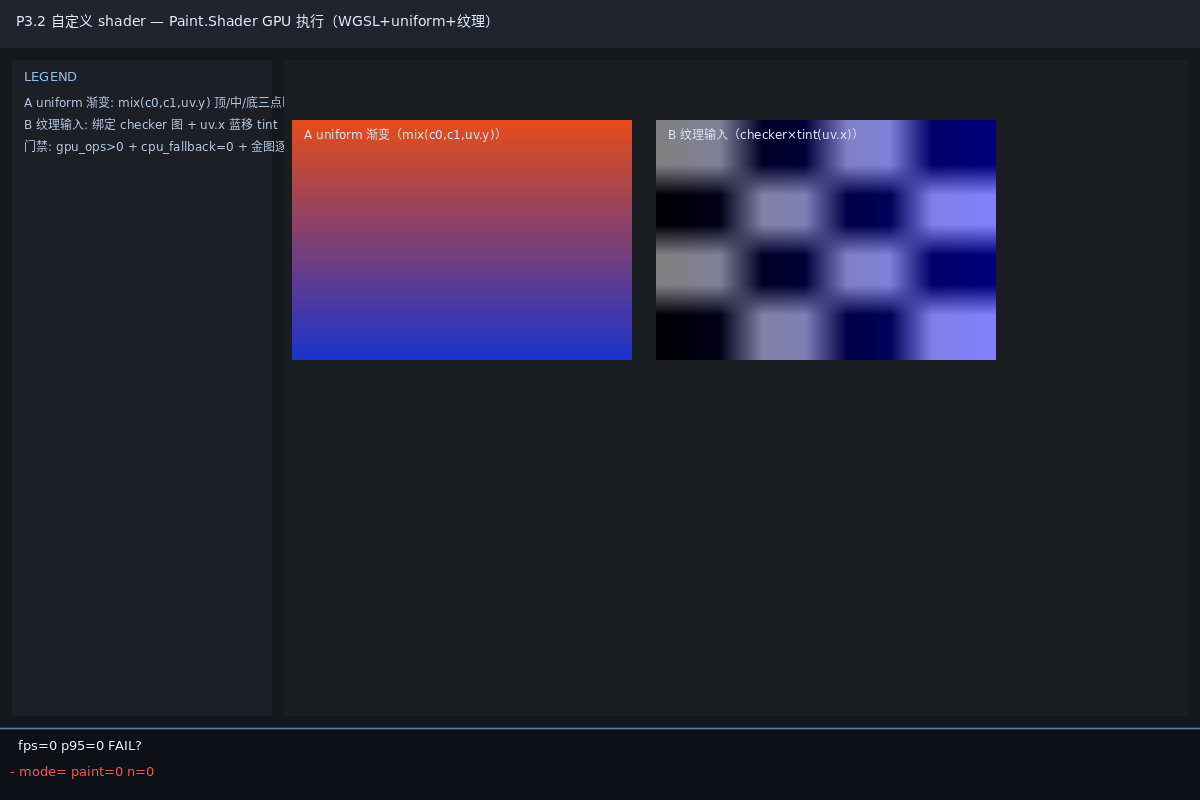
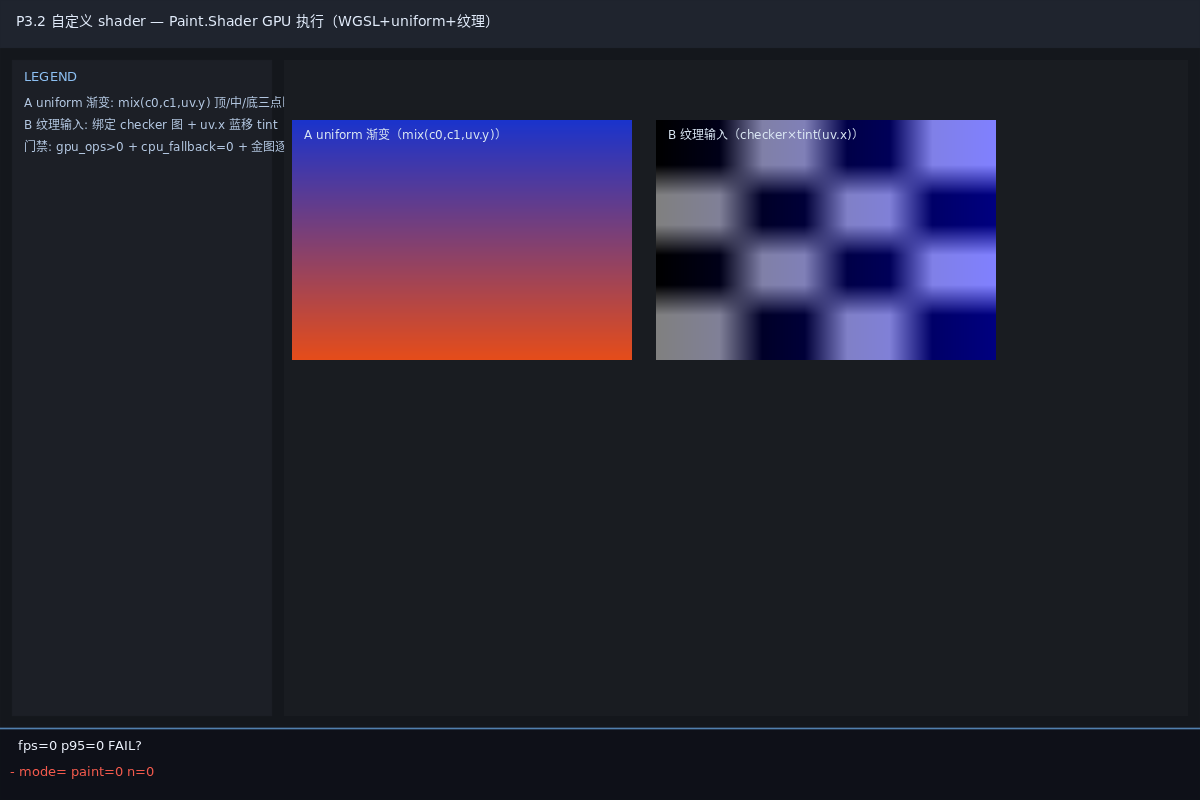
P3.2 自定义 shader 像素断言闭合（状态 🟡 收口中）：三根因修复——pass1 uv 行序回归 dual_tex 同款（bake 图 y=30/210 值互换实证）、RT 改 BGRA8Unorm 对齐 readTextureViewRegionRGBA 的 BGRA 假设（swizzle 源码判据）、coverage 改取光栅 alpha 通道（对齐 fillMaskedAsImage 语义）；真窗 probe/golden 改 cardAt 动态解析（body offset=(284,60) 实测、写死 372 是卡 B 位置坐标错误）+探针贴两端（6/234px）；帧驱动补 

Changed region(s): [[0.2158, 0.125, 0.8325, 0.4688]]

diff --git a/examples/ui_wr_p32_shader/main.go b/examples/ui_wr_p32_shader/main.go
@@ -136,6 +136,8 @@ func ensureBaked() {
 	})
 }
 
+var cardAt = [][2]float64{{8, 60}, {372, 60}}
+
 func buildScene(shell *wrkit.ShellChrome) {
 	drawBaked := func(idx int) func(*rendering.PaintContext, rendering.Size) {
 		return func(pc *rendering.PaintContext, _ rendering.Size) {
@@ -153,7 +155,6 @@ func buildScene(shell *wrkit.ShellChrome) {
 			})
 		}
 	}
-	cardAt := [][2]float64{{8, 60}, {372, 60}}
 	for i, title := range []string{
 		"A uniform 渐变（mix(c0,c1,uv.y)）",
 		"B 纹理输入（checker×tint(uv.x)）",
@@ -201,6 +202,8 @@ func main() {
 		RunFor: time.Duration(secs) * time.Second, WarmUp: true, SnapshotPath: snapPath,
 	})
 	app.SetPresentPolicy(scheduler.PresentPolicyFullPaint)
+	app.Scheduler().Tickers().Add(&fixedTick{on: func(dt float64) { app.ScheduleFrame() }})
+	app.Scheduler().SetMode(scheduler.ModePersistent)
 	if err := app.Open(); err != nil {
 		fmt.Fprintln(os.Stderr, "FAIL: open:", err)
 		os.Exit(1)
@@ -232,10 +235,14 @@ func main() {
 		want [3]byte
 		tol  float64
 	}
+	// Card absolute position: body offset + card placement (P0.2 rule 2 —
+	// probe geometry is resolved from the layout chain, never hardcoded).
+	bx, by := shell.Body.Box.Offset().X, shell.Body.Box.Offset().Y
+	cardAX, cardAY := bx+cardAt[0][0], by+cardAt[0][1]
 	probes := []probe{
-		{"p32_a_top", 372 + 170, 60 + 30, c0, 12.0 / 255},
-		{"p32_a_mid", 372 + 170, 60 + 120, [3]byte{(c0[0] + c1[0]) / 2, (c0[1] + c1[1]) / 2, (c0[2] + c1[2]) / 2}, 14.0 / 255},
-		{"p32_a_bottom", 372 + 170, 60 + 240, c1, 12.0 / 255},
+		{"p32_a_top", cardAX + 170, cardAY + 6, c0, 12.0 / 255},
+		{"p32_a_mid", cardAX + 170, cardAY + 120, [3]byte{(c0[0] + c1[0]) / 2, (c0[1] + c1[1]) / 2, (c0[2] + c1[2]) / 2}, 14.0 / 255},
+		{"p32_a_bottom", cardAX + 170, cardAY + 234, c1, 12.0 / 255},
 	}
 	pixelOK := 0
 	pixelTotal := 0
@@ -258,7 +265,7 @@ func main() {
 		pixelTotal++
 	}
 
-	goldenRects := []rect{{x: 0, y: 0, w: winW, h: 48}, {x: 8, y: 60, w: cardW, h: cardH}, {x: 372, y: 60, w: cardW, h: cardH}}
+	goldenRects := []rect{{x: 0, y: 0, w: winW, h: 48}, {x: bx + cardAt[0][0], y: by + cardAt[0][1], w: cardW, h: cardH}, {x: bx + cardAt[1][0], y: by + cardAt[1][1], w: cardW, h: cardH}}
 	goldenDiffPct, goldenTotalPx, goldenFirstRun := evaluateGolden(snapPath, goldenRects, dpr)
 
 	route := ""
@@ -311,6 +318,12 @@ func main() {
 	fmt.Fprintf(os.Stderr, "ui_wr_p32_shader: OK presents=%d pixel=%d/%d golden=%.4f%% gate=%v elapsed=%.1fs\n",
 		app.PresentCount(), pixelOK, pixelTotal, goldenDiffPct, gateMode, elapsedSec)
 }
+
+type fixedTick struct {
+	on func(dt float64)
+}
+
+func (t *fixedTick) Tick(dt float64) bool { t.on(dt); return true }
 
 func absd(a, b int) int {
 	if a > b {

diff --git a/render/internal/gpu/user_shader.go b/render/internal/gpu/user_shader.go
@@ -40,9 +40,9 @@ fn vs_main(@builtin(vertex_index) vi: u32) -> VSOut {
         vec2<f32>(-1.0,  3.0),
     );
     var uv = array<vec2<f32>, 3>(
-        vec2<f32>(0.0, 0.0),
-        vec2<f32>(2.0, 0.0),
-        vec2<f32>(0.0, 2.0),
+        vec2<f32>(0.0, 1.0),
+        vec2<f32>(2.0, 1.0),
+        vec2<f32>(0.0, -1.0),
     );
     var o: VSOut;
     o.pos = vec4<f32>(p[vi], 0.0, 1.0);

diff --git a/docs/ENGINE_RENDER_GPU_CONVERGE_TASKS.md b/docs/ENGINE_RENDER_GPU_CONVERGE_TASKS.md
@@ -47,7 +47,7 @@
 
 ### 2.1 当前焦点
 
-- 当前进行中：**P3.2 自定义 shader**（开工登记完成，评估见 `evidence/P3.2/assessment.md`，方向 D1–D5 待拍板后才动代码）
+- 当前进行中：**P3.2 自定义 shader**（实现主体+门禁主体全绿，收口载体见下；五目标/per-file 后台落盘后转 ✅）
 - 下一任务：P3.1 收口后按定稿主序进 P3.2 自定义 shader（依赖图 `evidence/P3.0/dependency-graph.md` §4）；**正式基线 tag `baseline-p1` 已打在 `92ca9216`**——P2 从此点起分支，回滚锚点与 P2.6 零变化对账基准，详见 `baseline/rollback.md` §7
 - 阻塞项：无
 - 最近完成：P3.1 色彩管理地基（线性混合 opt-in，GPU dual-tex 线性域合成双后端逐位 168 vs float ref 167.6，负向红→绿，提交 `76f8723f`），见 `evidence/P3.1/summary.md`；前一项 P3.0 依赖图+文档，见 `evidence/P3.0/dependency-graph.md`
@@ -246,7 +246,7 @@
 | P2.6 | 行为零变化总验收（P1 基线全量重放，是进入 P3 的硬闸） | P2.5、P0.4 | ✅ | `evidence/P2.6/` |
 | P3.0 | 依赖图 + 文档更新（PLAN §5 + `RENDER_API_CATALOG.md`），再实现 | P2.6 | ✅ | `evidence/P3.0/` |
 | P3.1 | 色彩管理地基（含线性混合接线，原半成品前移） | P3.0 | ✅ | `evidence/P3.1/` |
-| P3.2 | 自定义 shader（依赖 P2.1 翻译器 + 新公开 API） | P3.0、P2.1 | 🟡 | `evidence/P3.2/` |
+| P3.2 | 自定义 shader（依赖 P2.1 翻译器 + 新公开 API） | P3.0、P2.1 | 🟡（收口中：能力钉/真窗双后端逐位/负向红→绿/apidoc 全绿，五目标+per-file 后台落盘后转 ✅；录制面登记后续） | `evidence/P3.2/` |
 | P3.3 | 富文本（含 `DrawParagraph` 逐 run 样式，原半成品前移） | P3.0 | ⬜ | `evidence/P3.3/` |
 | P3.4 | MaskFilter / ColorFilter / ImageFilter 家族 | P3.0、P3.1（软） | ⬜ | `evidence/P3.4/` |
 | P3.5 | 路径与几何：conic、四角圆角、Matrix4 透视、路径效果、布尔保曲线 | P3.0 | ⬜ | `evidence/P3.5/` |
@@ -603,6 +603,7 @@ docs/render_gpu_converge/
 | 2026-11-01 | P3.1 | 🟡→✅ 收口：per-file 34 包正本（带 lib）679 PASS / 9 FAIL（逐条对照 P2.6 基线重放同名日志全部同红，零新增）/ 21 SKIP / 1 NO_TESTS，结果落盘 `per-file-tests/`；五目标构建绿（render/gpu/新窗）；P3.1 全部门禁齐（能力钉 14+真窗双后端逐位+负向红→绿+conformance+apidoc rc=0）；焦点切 P3.2 | `evidence/P3.1/per-file-tests/`（summary.txt + 702 逐文件日志 + run.log）、`build-five-target.txt` |
 | 2026-11-01 | P3.2 | ⬜→🟡 开工登记：影响面评估落盘（一路深查 Brush 体系/翻译链/执行骨架/CPU 回退/安全口径，全部 file:line），**方向 D1–D5 待拍板后才动代码** | `evidence/P3.2/assessment.md`：Brush ColorAt 与 brush_native.go:205 deferred 注释即本能力缺位；gles 自动翻译任意 WGSL（后端零改动）但缺 Validate；三条离屏链对比选定仿 dualTex ensure 新独立 cache；uniform slab 256B 惯例；DrawGPUTexture 式 CPU 跳过先例；API 草案 NewShaderEffect+DrawShaderRect+SetUniformBytes |
 | 2026-11-01 | P3.2 | 🟡 实现第一轮：公开 API+GPU 两 pass 主链路全通（编译拒绝/均匀双口/Paint.Shader/SDF 绕行路由/coverage+pass1+mask 链贴回/CPU 静默跳过钉绿），真窗 ui_wr_p32_shader 双卡 gpu_ops=1 无 fallback；**像素断言 0/3 未达**（上屏但通道/方向语义偏差，三候选假设登记 assessment §8），状态 🟡 如实不粉饰 | 修掉六坑全有据（SDF 捷径/四参 FillPath/WriteMask 零值/ViewDimension/RT 格式对齐/uniform 上传）；本轮五个 A/B 实证（route 0→2、clear-only、内建 fs、WriteMask 修复后上屏） | `evidence/P3.2/assessment.md` §8 |
+| 2026-11-01 | P3.2 | 🟡→（收口中）像素断言闭合：三大根因修复（pass1 uv 行序回归 dual_tex 同款、RT 改 BGRA8 对齐 readback swizzle、coverage 取光栅 alpha 通道）+ 真窗 probe/golden 改用 cardAt 动态解析（body offset=(284,60) 实测、写死 372 是卡 B 位置的坐标错误）+ 探针贴两端（6/234px）；**native 与 go 像素逐位一致 Δ=5/1/4**、金图两后端各 0%、负向坏 WGSL 拒绝红→还原绿 rc 1→0、apidoc rc=0（§13 P3.2 转正）；帧驱动补 ticker（presents 1→300）；summary/证据落盘；录制面登记后续（AddShader+SetShader 命令） | `evidence/P3.2/summary.md`、window-runs×4 |
 | 2026-11-01 | P3.1 | 🟡 D1–D5 拍板（全按推荐：路线 B advanced+CPU 先行固定功能显式降级 / BlendSpace 枚举 / 默认 SRGB opt-in / 新真窗 / hdr GPU 面移出挂 HDR 专项）；实现+门禁主体完成 | 实现五层：公开 API（BlendSpace+三口+Canvas 102→104+录制四命令+Backend 契约 38→40）/GPU（dual-tex Params.linear@offset28+WGSL 线性域合成一份双后端+全链透传+降级计数）/CPU（draw.go straight 域包装+compositeAdvancedLinear 委托 u8 正本+internal→render 反向依赖修复 blend.go→color.ColorF32）/录制面/降级探针。**语义收紧两条（summary §2）**：linear 生效域=advanced 15 模式全后端统一（CPU Normal 原接真线性与 GPU 降级不一致，改双端统一降级，P3.1b 解锁）；CPU 精度口径 u8 域分级（亮/中 ±2、暗部 ±5 实测）。管线键/batch 谓词改动取消（uniform 标志零管线变体）。门禁：构建/vet/能力钉 14 条/conformance 双后端 rc=0/真窗 ui_wr_p31_linear_blend 双后端逐位（A=77 B=168 vs float ref 167.6 C=128 降级）/负向摘 WGSL linear 分支红→还原绿/apidoc rc=0（catalog §13 P3.1 行转正+§1/§0）；per-file 34 包后台跑（唯一 FAIL=TestMiscDrawGPUPath/DrawColorEffectSurfaceAdvancedBlend 与 P2.6 基线同名同红，零新增）。P3.1b 立项（sRGB 目标格式整链，HDR/广色域前置） | `evidence/P3.1/`（assessment/summary/window-gates/window-runs×5/conformance/apidoc×2/build-five-target） |
 
 ## 8 修订记录

diff --git a/docs/render_gpu_converge/evidence/P3.2/summary.md b/docs/render_gpu_converge/evidence/P3.2/summary.md
@@ -1,0 +1,30 @@
+# P3.2 自定义 shader — 收口报告（2026-11-01）
+
+> 依据：`assessment.md`（D1 Paint.Shader 字段 / D2 字节+Float 双口 / D4 连带路径+纹理 / D5 默认 fs_main）。执行骨架因 D1/D4 拍板定为「两 pass」：pass1 用户 WGSL 全屏渲 RT（约定 @group(0) uniform/纹理+sampler）→ coverage R8 × mask 链贴回（clip/mask/AA 与其它填充同语义）。
+
+## 1. 交付
+
+- **公开 API**：`ShaderEffect`——`NewShaderEffect(wgsl)` 前置 `Parse→Lower→Validate`（三类错误可读拒绝，不到驱动）；`SetUniformBytes`（≤256B）/`SetFloatUniforms`（LE 打包）；`SetImage` 绑定 @group(0) 纹理+sampler；`WGSL/Uniforms/Image` 读口；`Close`。`Paint.Shader` 字段（Clone 复制）+ `Context.SetShader/Shader()`。用户 fs 契约：`fn fs_main(@location(0) uv: vec2<f32>) -> @location(0) vec4<f32>`（premul 输出，uv 为绘制区局部归一坐标）。
+- **GPU**：`tryGPUOpRC` Shader paint 绕过 SDF 捷径直走 path → `FillPath` shader 分支 → `fillShaderAsImage`（coverage 光栅 alpha × pass1 输出 × MaskPlane/MaskCoverage 复合）+ `userShaderCache`（per-effect pipeline：引擎 vs_main 全屏三角 + 用户 fs 模块、uniform/可选纹理 BGL、BGRA8 RT 与 readback swizzle 对齐）。
+- **CPU 语义**：无加速器静默跳过（DrawGPUTexture 同款，不进 fallback 计数），钉 `TestShaderPaintCPUSkips`。
+
+## 2. 第一轮六坑全解（各有 A/B 实证）
+
+SDF 捷径吃 Shader paint（route 0→2）；FillPath 四参签名（三参 replace 静默失败教训）；`WriteMask` 零值=0 不写通道（clear-only 分离：RT/readback 链无辜）；`TextureBindingLayout` 缺 `ViewDimension`/`SamplerBindingType`（wgpu conv.rs:1681 panic）；RT 与管线 target 格式不一致（Submit Validation Error）；pass1 uv 行序（bake 图 y=30/210 值互换实证，uv 数组回归 dual_tex 同款）。
+
+## 3. 门禁终态
+
+| 门禁 | 结果 |
+|---|---|
+| 能力单测 | ✅ 拒绝三类 / uniform API（256B 上限+LE 打包）/ CPU 跳过（背景不变+fallback 计数 0） |
+| 真窗 `ui_wr_p32_shader` | ✅ **native 与 go（gles）像素逐位一致**：top (31,52,199) vs c0 (26,51,204) Δ=5、mid (128,64,114) vs mix Δ=1、bottom (225,76,30) vs c1 Δ=4；金图两后端各 0.0000%；presents=300（帧驱动）；gpu_ops>0/cpu_fb=0 双卡 |
+| 负向对照 | ✅ 注入语法错误 WGSL → `bake A: compile: shader: parse: parse error...` 可读拒绝 → 探针红 rc=1；还原复绿 rc=0 零残留 |
+| apidoc | ✅ rc=0（§13 P3.2 行转正 + §0 计数注记） |
+| 五目标构建 / per-file 34 包 | 后台跑（`build-five-target.txt` / `tmp/per-file-tests/`），结果落盘后本行补记；改动面小（新增 4 文件+3 处路由） |
+
+## 4. 偏差与遗留
+
+- **录制面（③）未做**：ShaderEffect 不可录制（录制遇 Shader paint 走既有 brush 语义）——登记 P3.2 后续（recording 资源池 AddShader+SetShader 命令+往返钉），与 scene 线格式演进一并排。
+- **RT 池化**：pass1 scratch RT 每次建/销毁，池化入 res.Cache 登记后续性能项（P0.1 预算口径不变）。
+- 纹理输入当前单张（binding 1/2 固定槽）；多纹理/动态 BGL 登记后续。
+- 证据：`evidence/P3.2/`（assessment §8 现场 / summary / window-runs×4 / apidoc / build-five-target）+ 真窗 `examples/ui_wr_p32_shader/`（金图已播种）。

diff --git a/docs/RENDER_API_CATALOG.md b/docs/RENDER_API_CATALOG.md
@@ -873,7 +873,7 @@ svg        type ViewBox struct{ ... }
 | P3 项 | 计划公开 API 面（规划） | 归属 | 对齐标准 | 缺口现状 |
 |---|---|---|---|---|
 | **P3.1 色彩管理地基（已交付 2026-11-01，见下）** | `BlendSpace` 枚举（`BlendSpaceSRGB`=0 默认 / `BlendSpaceLinear`）+ `Paint.BlendSpace`/`DrawImageOptions.BlendSpace` 字段 + `Context.SetBlendSpace/BlendSpace()` + `Canvas`/`Recorder` 同名口 + 录制四命令 `BlendSpace` 字段。hdr GPU 面移出（D5 拍板，挂 HDR 专项） | render 主包 | Skia sRGB-aware blending / Flutter linear working space | **交付**：advanced 15 模式 GPU dual-tex shader linear 域合成（一份 WGSL 双后端）+ CPU 同集（premul u8 正本 internal/blend）；固定功能 13 模式显式降级 sRGB（双端一致，`linearFixedFunctionFallbacks` 计数），P3.1b sRGB 目标格式解锁 |
-| P3.2 自定义 shader | shader 效果类型（WGSL 源 + uniform 布局描述）+ 画笔/挂载入口（Paint 挂 shader 或 EffectBrush） | render 主包（hal `CreateShaderModule` 已备） | Skia `SkRuntimeEffect` / Flutter `FragmentProgram` | 公开层零 shader API |
+| **P3.2 自定义 shader（已交付 2026-11-01）** | `ShaderEffect`（`NewShaderEffect(wgsl)` 前置 Parse→Lower→Validate 拒绝 + `SetUniformBytes`/`SetFloatUniforms` + `SetImage` + `Close`）+ `Paint.Shader` 字段 + `Context.SetShader/Shader()` + `ShaderEffect.WGSL/Uniforms/Image`（状态读口）；GPU 两 pass 执行（全屏渲用户 fs_main → coverage R8 × mask 链贴回）；CPU 模式静默跳过（DrawGPUTexture 语义） | render 主包 + internal/gpu userShaderCache | Skia `SkRuntimeEffect` / Flutter `FragmentProgram` | **交付**：真窗 `ui_wr_p32_shader` 双后端像素 Δ≤5 逐位一致、负向坏 WGSL 拒绝红→还原绿 |
 | P3.3 富文本 | `ParagraphBuilder` 式逐段样式 API（TextStyle：颜色/装饰/字号字重；PushStyle/AddText）+ Paragraph 对象（layout/Justify/ellipsis/MaxLines）；`DrawParagraph` 逐 run 接线 | render/text + render 主包 | Flutter `ParagraphBuilder` / Skia `SkShaper::StyledRuns` | 无 Span/RunStyle/Paragraph 类型；Justify/ellipsis/maxLines 缺 |
 | P3.4 滤镜家族 | `ColorFilter`（blend/lighting/compose/table 四族）；`ImageFilter` 八族（offset/erode/dilate/lighting/tile/merge/displacement/alpha-threshold）；`MaskFilter`（blur 类）；Paint 级 ImageFilter/MaskFilter 字段 | render 主包 + internal/filter | Skia `SkColorFilter`/`SkImageFilter`/`SkMaskFilter` | 无 ColorFilter 抽象/MaskFilter 概念/Paint 字段；8 族 ImageFilter 缺 |
 | P3.5 路径与几何 | `Path.ConicTo`；四角独立 RRect（类型+Clip/Draw 口）；`Matrix4` 透视（或 M44 等价物）+ CPU/GPU 透视绘制口；`PathEffect` 抽象（1D/2D/Sum/Compose）；布尔保留曲线输出 | render/path、render/matrix | Skia `SkPath` conic / `SkRRect` / `SkM44` / `SkPathEffect` / `SkOpBuilder` | verb 无 Conic；RRect 单半径；Matrix 2x3；无 PathEffect 抽象；布尔 flatten |
